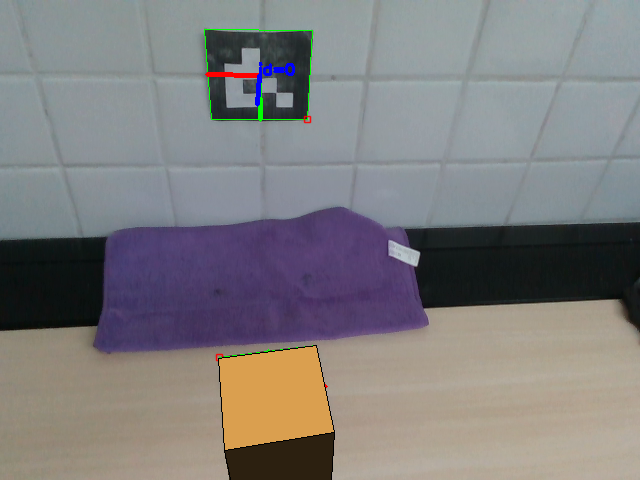
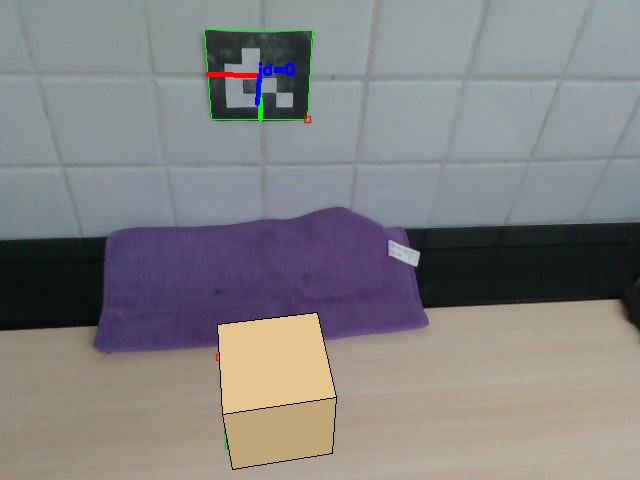
cuboid format fixed

Changed region(s): [[0.3125, 0.625, 0.5312, 1.0]]

diff --git a/utils/augmented_reality_marker.py b/utils/augmented_reality_marker.py
@@ -36,66 +36,125 @@ class ARMarker(CameraMathUtils):
         rvec, tvec = self.solve_pnp(obj_points, img_points, self.camera_matrix)
         return rvec, tvec
 
-    def draw_shaded_cuboid(self, frame, rvec, tvec, height_scale=1.0):
-        """Draw a shaded cuboid centered and aligned with ArUco marker 1."""
-        w, h = self.marker_length, self.marker_length   # base matches marker size
-        d = self.marker_length * height_scale           # cuboid height relative to marker
 
-        # Base aligned with the ArUco plane (Z = 0)
+    def draw_shaded_cuboid(self, frame, rvec, tvec, size_m=0.10,
+                        light_pos_cam=(0.0, 0.0, 0.0),
+                        light_dir_cam=None,
+                        ambient=0.18, kd=0.90, ks=0.35, shininess=32,
+                        apply_gamma=True):
+        """
+        Draw a shaded cuboid centered at the marker's origin, with fixed size.
+        Shading: Blinn–Phong (ambient + diffuse + specular), optional gamma correction.
+
+        Args:
+            size_m: edge length (meters) for width/height/depth (default 0.10 m).
+            light_pos_cam: point light position in camera coords (default: camera origin).
+            light_dir_cam: if not None, uses directional light (normalized) instead of point light.
+            ambient, kd, ks: ambient/diffuse/specular coefficients.
+            shininess: Blinn–Phong exponent.
+            apply_gamma: if True, converts linear color to sRGB with gamma≈2.2.
+        """
+        w = h = d = float(size_m)
+
+        # Cuboid vertices centered at origin in the marker's local coordinates
         points_3d = np.float32([
-            [-w/2, -h/2, 0], [ w/2, -h/2, 0], [ w/2,  h/2, 0], [-w/2,  h/2, 0],   # base
-            [-w/2, -h/2, -d], [ w/2, -h/2, -d], [ w/2,  h/2, -d], [-w/2,  h/2, -d] # top
+            [-w/2, -h/2, -d/2], [ w/2, -h/2, -d/2], [ w/2,  h/2, -d/2], [-w/2,  h/2, -d/2],  # near (z=-d/2)
+            [-w/2, -h/2,  d/2], [ w/2, -h/2,  d/2], [ w/2,  h/2,  d/2], [-w/2,  h/2,  d/2],  # far  (z=+d/2)
         ])
 
-        # Project 3D -> 2D
-        points_2d, _ = self.project_points(points_3d, rvec, tvec,
-                                         self.camera_matrix, self.dist_coeffs)
-        points_2d = np.int32(points_2d).reshape(-1, 2)
-
-        # Face definitions
+        # Face indices (quads)
         faces = [
-            [0, 1, 2, 3], [4, 5, 6, 7],   # base, top
-            [0, 1, 5, 4], [1, 2, 6, 5],
-            [2, 3, 7, 6], [3, 0, 4, 7],
+            [0, 1, 2, 3],  # near
+            [4, 5, 6, 7],  # far
+            [0, 1, 5, 4],  # bottom
+            [1, 2, 6, 5],  # right
+            [2, 3, 7, 6],  # top
+            [3, 0, 4, 7],  # left
         ]
 
-        # Rotation matrix
+        # Rotation matrix from rvec
         R, _, _ = self.rodrigues(rvec)
+        t = tvec.reshape(3, 1)
 
-        # Light direction
-        light_dir = np.array([0.0, -1.0, -0.8], dtype=np.float32)
-        light_dir /= np.linalg.norm(light_dir)
+        # Base color (BGR for OpenCV)
+        base_color_bgr = np.array([80, 160, 220], dtype=np.float32) / 255.0  # linear
 
-        # Depth sorting
+        # Helper: linear -> sRGB gamma
+        def to_srgb(c):
+            if not apply_gamma:
+                return np.clip(c, 0.0, 1.0)
+            return np.clip(np.power(np.clip(c, 0.0, 1.0), 1.0 / 2.2), 0.0, 1.0)
+
+        # Depth sort: draw far -> near using average camera-Z
         face_depths = []
         for face in faces:
-            pts_cam = (R @ points_3d[face].T).T + tvec.reshape(1, 3)
-            avg_depth = np.mean(pts_cam[:, 2])
-            face_depths.append((avg_depth, face))
-        face_depths.sort(key=lambda x: -x[0])
+            pts_cam = (R @ points_3d[face].T).T + t.T  # (4,3)
+            avg_z = float(np.mean(pts_cam[:, 2]))
+            face_depths.append((avg_z, face))
+        face_depths.sort(key=lambda x: -x[0])  # far to near
 
-        # Draw faces with shading
+        # Project all points once
+        points_2d, _ = self.project_points(points_3d, rvec, tvec, self.camera_matrix, self.dist_coeffs)
+        points_2d = np.int32(points_2d).reshape(-1, 2)
+
+        # Lighting setup
+        light_pos_cam = np.asarray(light_pos_cam, dtype=np.float32).reshape(3)
+        directional = (light_dir_cam is not None)
+        if directional:
+            Ldir = np.asarray(light_dir_cam, dtype=np.float32).reshape(3)
+            Ldir /= (np.linalg.norm(Ldir) + 1e-12)
+
         for _, face in face_depths:
-            pts_3d_face = points_3d[face]
-            v1 = pts_3d_face[1] - pts_3d_face[0]
-            v2 = pts_3d_face[2] - pts_3d_face[0]
-            normal = np.cross(v1, v2)
-            normal /= (np.linalg.norm(normal) + 1e-6)
-            normal_cam = R @ normal
+            # Geometry in local
+            p0, p1, p2 = points_3d[face[0]], points_3d[face[1]], points_3d[face[2]]
+            v1 = p1 - p0
+            v2 = p2 - p0
+            n_local = np.cross(v1, v2)
+            n_local /= (np.linalg.norm(n_local) + 1e-12)
 
-            intensity = np.dot(normal_cam, light_dir)
-            intensity = max(0.2, intensity)
+            # Transform normal and center to camera coords
+            n_cam = R @ n_local
+            face_center_local = np.mean(points_3d[face], axis=0)
+            face_center_cam = (R @ face_center_local.reshape(3, 1) + t).reshape(3)
 
-            base_color = np.array([80, 160, 220])
-            color = (base_color * intensity).astype(np.uint8)
-            color = tuple(int(c) for c in color)
+            # View direction (camera at origin)
+            V = -face_center_cam
+            V /= (np.linalg.norm(V) + 1e-12)
 
+            # Light direction
+            if directional:
+                L = Ldir
+            else:
+                L = light_pos_cam - face_center_cam
+                L /= (np.linalg.norm(L) + 1e-12)
+
+            # Blinn–Phong terms
+            ndotl = max(0.0, float(np.dot(n_cam, L)))
+            H = L + V
+            H /= (np.linalg.norm(H) + 1e-12)
+            ndoth = max(0.0, float(np.dot(n_cam, H)))
+            spec = (ndoth ** shininess)
+
+            # Final color in linear space
+            color_linear = base_color_bgr * (ambient + kd * ndotl) + ks * spec
+
+            # Gamma to sRGB and to 8-bit
+            color_srgb = (to_srgb(color_linear) * 255.0).astype(np.uint8)
+            color_bgr = tuple(int(c) for c in color_srgb)  # BGR
+
+            # Rasterize
             pts_2d_face = points_2d[face]
-            cv2.fillConvexPoly(frame, pts_2d_face, color)
+            cv2.fillConvexPoly(frame, pts_2d_face, color_bgr)
             cv2.polylines(frame, [pts_2d_face], True, (0, 0, 0), 1)
 
+
+
     def process_frame(self, frame):
-        """Process a frame: detect both markers, draw cuboid if IDs 0 and 1 are found."""
+        """
+        Detect markers 0 and 1. Draw a 10 cm cuboid:
+        - centered on marker 1 (orientation and XY from marker 1),
+        - placed at the Z height of marker 0 in camera coordinates.
+        """
         gray = cv2.cvtColor(frame, cv2.COLOR_BGR2GRAY)
         corners, ids = self.detect_markers(gray)
 
@@ -110,12 +169,14 @@ class ARMarker(CameraMathUtils):
                 tvecs[marker_id] = tvec
                 cv2.drawFrameAxes(frame, self.camera_matrix, self.dist_coeffs, rvec, tvec, 0.05)
 
-            # Marker 1 defines orientation and center
-            rvec_base, tvec_base = rvecs[1], tvecs[1]
+            # Orientation and XY center from marker 1
+            rvec_base = rvecs[1]
+            tvec_base = tvecs[1].copy()
 
-            # Height = distance between marker 0 and marker 1
-            height_scale = np.linalg.norm(tvecs[0] - tvecs[1]) / self.marker_length
+            # Match the camera-space Z ("height") to marker 0
+            tvec_base[2, 0] = tvecs[0][2, 0]  # align height (camera Z)
 
-            self.draw_shaded_cuboid(frame, rvec_base, tvec_base, height_scale)
+            # Draw fixed-size cuboid 0.10 m (10 cm) per edge
+            self.draw_shaded_cuboid(frame, rvec_base, tvec_base, size_m=0.10)
 
         return frame
